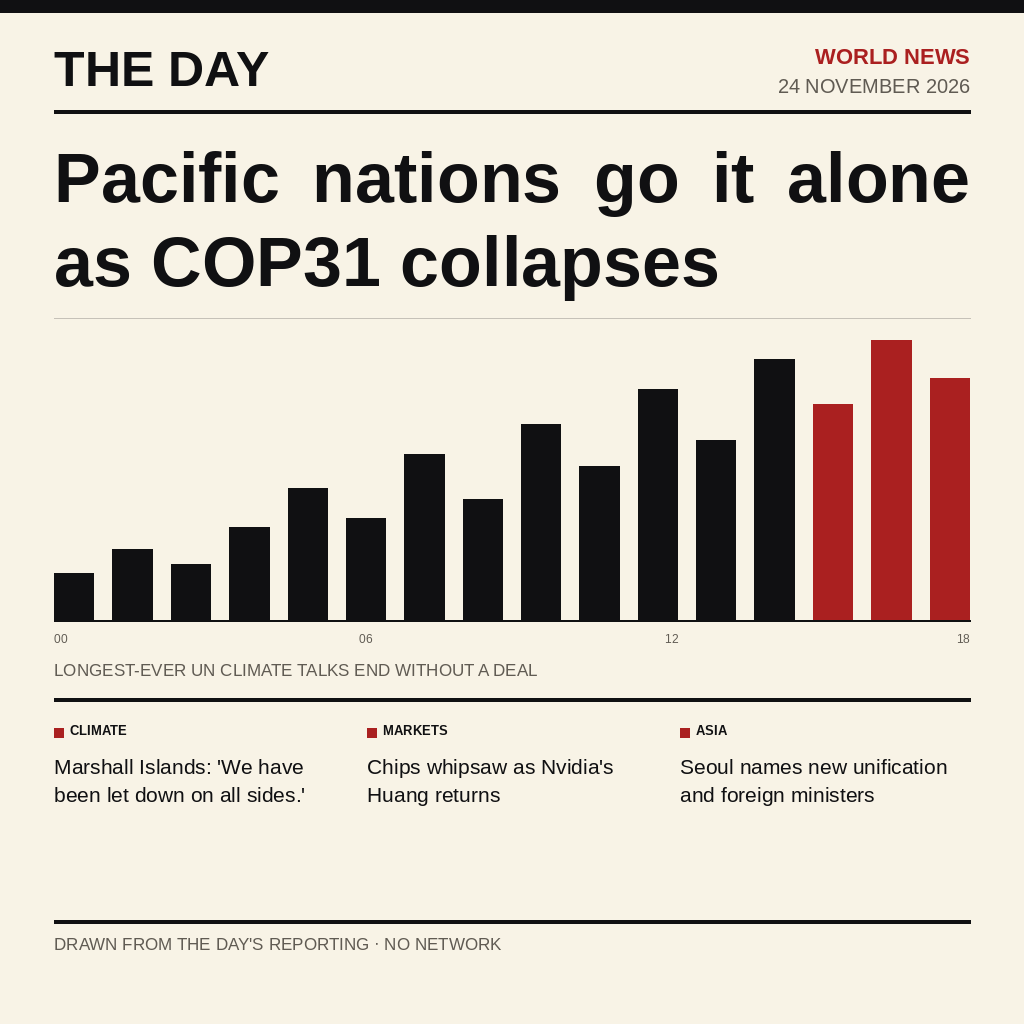
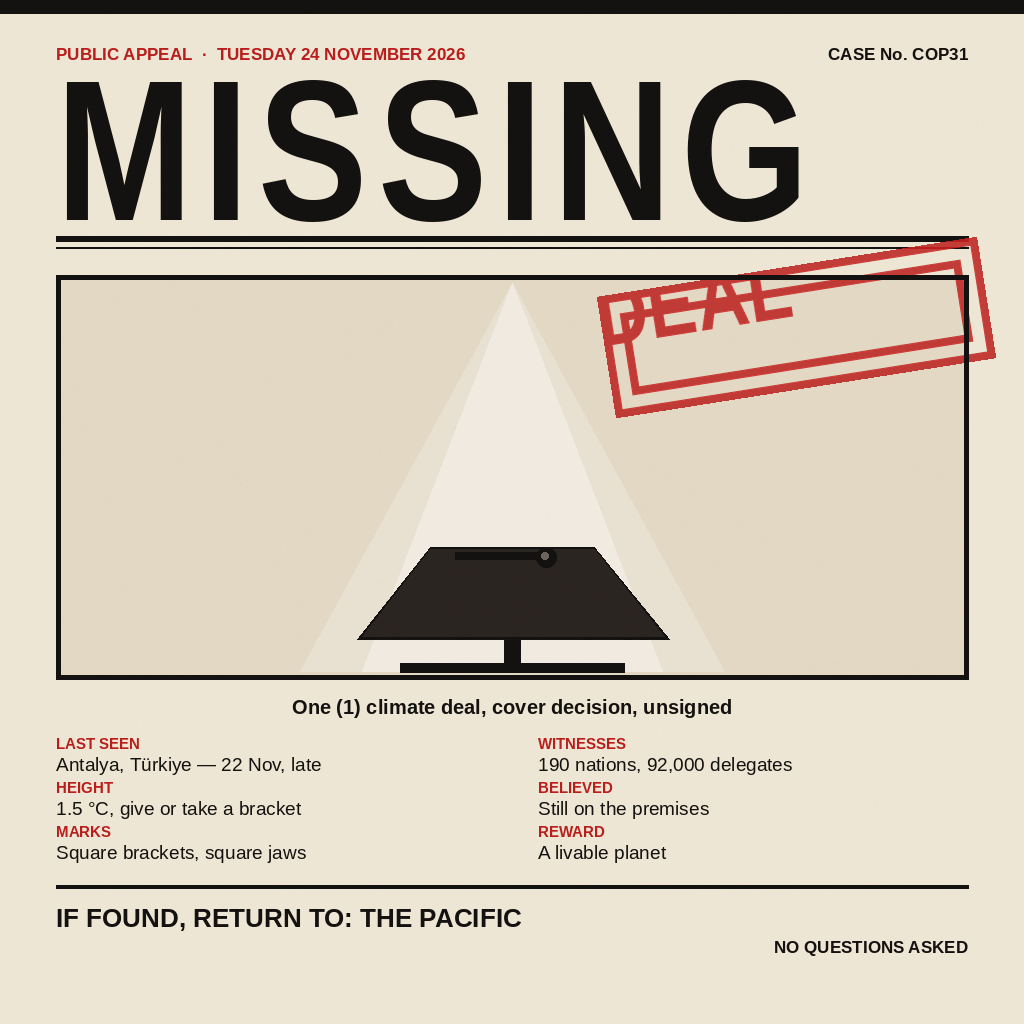
poster: missing climate deal

diff --git a/make_image.py b/make_image.py
@@ -1,79 +1,48 @@
 #!/usr/bin/env python3
-"""Render the 24 November 2026 front page. Deterministic, no clock/network."""
+"""Render the 24 November 2026 news image: a missing-poster for the COP31 deal."""
 
+import random
 from pathlib import Path
 
 from PIL import Image, ImageDraw, ImageFont
 
 W = H = 1024
-M = 54
+M = 56
 MEASURE = W - 2 * M
-INK = "#101012"
-PAPER = "#f8f3e6"
-ACCENT = "#aa2020"
-HAIR = "#c6c1b8"
-GREY = "#605b53"
+PAPER = "#eee6d4"
+INK = "#141210"
+RED = "#ba1e1c"
+FRAME_FILL = "#e2d8c4"
 FONT_DIR = Path("/usr/share/fonts/truetype/liberation")
+NARROW = str(FONT_DIR / "LiberationSansNarrow-Bold.ttf")
 BOLD = str(FONT_DIR / "LiberationSans-Bold.ttf")
 REG = str(FONT_DIR / "LiberationSans-Regular.ttf")
-
-LEAD = "Pacific nations go it alone as COP31 collapses"
-CAPTION = "LONGEST-EVER UN CLIMATE TALKS END WITHOUT A DEAL"
-COLUMNS = [
-    ("CLIMATE", "Marshall Islands: 'We have been let down on all sides.'"),
-    ("MARKETS", "Chips whipsaw as Nvidia's Huang returns"),
-    ("ASIA", "Seoul names new unification and foreign ministers"),
-]
-BARS = (47, 71, 56, 93, 132, 102, 166, 121, 196, 154, 231, 180, 261, 216, 280, 242)
-
 OUT = Path(__file__).resolve().parent / "entry.png"
+
+LEFT = [
+    ("LAST SEEN", "Antalya, Türkiye — 22 Nov, late"),
+    ("HEIGHT", "1.5 °C, give or take a bracket"),
+    ("MARKS", "Square brackets, square jaws"),
+]
+RIGHT = [
+    ("WITNESSES", "190 nations, 92,000 delegates"),
+    ("BELIEVED", "Still on the premises"),
+    ("REWARD", "A livable planet"),
+]
 
 
 def font(path: str, size: int) -> ImageFont.FreeTypeFont:
     return ImageFont.truetype(path, size)
 
 
-def wrap(text: str, f: ImageFont.FreeTypeFont, measure: int) -> list[str]:
-    lines: list[str] = []
-    cur = ""
-    for word in text.split():
-        cand = (cur + " " + word).strip()
-        if f.getlength(cand) <= measure or not cur:
-            cur = cand
-        else:
-            lines.append(cur)
-            cur = word
-    lines.append(cur)
-    return lines
-
-
-def fit_lead(text: str, measure: int) -> tuple[ImageFont.FreeTypeFont, list[str]]:
-    """Start at 70, step down only until 2-3 wide lines with no lone word."""
-    floor = 0.88 * measure
-    for size in range(70, 30, -1):
-        f = font(BOLD, size)
-        lines = wrap(text, f, measure)
-        if not 2 <= len(lines) <= 3:
-            continue
-        if any(len(line.split()) < 2 for line in lines):
-            continue
-        widest = max(f.getlength(line) for line in lines)
-        if floor <= widest <= measure:
-            return f, lines
-    raise RuntimeError("no lead size fits")
-
-
-def justify(d: ImageDraw.ImageDraw, f, line: str, x: int, y: int, measure: int) -> None:
-    words = line.split()
-    if len(words) == 1:
-        d.text((x, y), line, font=f, fill=INK)
-        return
-    natural = sum(f.getlength(w) for w in words)
-    gap = (measure - natural) / (len(words) - 1)
-    cx = x
-    for w in words:
-        d.text((cx, y), w, font=f, fill=INK)
-        cx += f.getlength(w) + gap
+def fit_missing(text: str, measure: int) -> tuple[ImageFont.FreeTypeFont, float]:
+    """Shrink from 200pt by 2 until the tracked word fits the measure."""
+    for size in range(200, 30, -2):
+        f = font(NARROW, size)
+        width = sum(f.getlength(c) for c in text) + 10 * (len(text) - 1)
+        if width <= measure:
+            return f, width
+    raise RuntimeError("MISSING does not fit")
 
 
 def main() -> None:
@@ -81,71 +50,114 @@ def main() -> None:
     d = ImageDraw.Draw(img)
     right = W - M
 
-    d.rectangle((0, 0, W, 12), fill=INK)
+    # Top bar and appeal header.
+    d.rectangle((0, 0, W, 13), fill=INK)
+    f_small = font(BOLD, 17)
+    d.text((M, 44), "PUBLIC APPEAL  ·  TUESDAY 24 NOVEMBER 2026", font=f_small, fill=RED)
+    d.text((right - f_small.getlength("CASE No. COP31"), 44), "CASE No. COP31",
+           font=f_small, fill=INK)
 
-    d.text((M, 40), "THE DAY", font=font(BOLD, 50), fill=INK)
-    f_word = font(BOLD, 22)
-    d.text((right - f_word.getlength("WORLD NEWS"), 44), "WORLD NEWS", font=f_word, fill=ACCENT)
-    f_date = font(REG, 20)
-    d.text((right - f_date.getlength("24 NOVEMBER 2026"), 74), "24 NOVEMBER 2026",
-           font=f_date, fill=GREY)
+    # MISSING, tracked one glyph at a time.
+    word = "MISSING"
+    f_word, _ = fit_missing(word, MEASURE)
+    x = float(M)
+    for ch in word:
+        d.text((x, 74), ch, font=f_word, fill=INK)
+        x += f_word.getlength(ch) + 10
+    word_bottom = 74 + f_word.getbbox(word)[3]
 
-    d.rectangle((M, 110, right, 113), fill=INK)
+    y = word_bottom + 14
+    d.rectangle((M, y, right, y + 5), fill=INK)
+    y += 11
+    d.rectangle((M, y, right, y + 1), fill=INK)
+    frame_top = y + 2 + 26
+    frame_bottom = frame_top + 404
 
-    f_lead, lines = fit_lead(LEAD, MEASURE)
-    lead_top = 138
-    lead_step = 84
-    for i, line in enumerate(lines):
-        y = lead_top + i * lead_step
-        if i < len(lines) - 1:
-            justify(d, f_lead, line, M, y, MEASURE)
-        else:
-            d.text((M, y), line, font=f_lead, fill=INK)
+    # Frame.
+    d.rectangle((M, frame_top, right, frame_bottom), fill=FRAME_FILL)
+    d.rectangle((M, frame_top, right, frame_bottom), outline=INK, width=5)
 
-    y = lead_top + len(lines) * lead_step - (lead_step - 70) + 26
-    d.rectangle((M, y, right, y), fill=HAIR)
+    # Spotlight cone.
+    glow = Image.new("RGBA", (W, H), (0, 0, 0, 0))
+    gd = ImageDraw.Draw(glow)
+    gd.polygon([(512, frame_top + 8), (300, frame_bottom - 8), (724, frame_bottom - 8)],
+               fill=(255, 255, 255, 52))
+    gd.polygon([(512, frame_top + 8), (362, frame_bottom - 8), (662, frame_bottom - 8)],
+               fill=(255, 255, 255, 120))
+    img = Image.alpha_composite(img.convert("RGBA"), glow).convert("RGB")
+    d = ImageDraw.Draw(img)
 
-    base = y + 22 + 280
-    n = len(BARS)
-    gap = 18.0
-    bw = (MEASURE - gap * (n - 1)) / n
-    for i, h in enumerate(BARS):
-        x0 = M + i * (bw + gap)
-        colour = ACCENT if i >= n - 3 else INK
-        d.rectangle((round(x0), base - h, round(x0 + bw) - 1, base - 1), fill=colour)
-    d.rectangle((M, base, right, base + 1), fill=INK)
+    # Empty lectern.
+    top = frame_bottom - 132
+    d.rectangle((400, frame_bottom - 16, 624, frame_bottom - 7), fill=INK)
+    d.rectangle((504, frame_bottom - 46, 520, frame_bottom - 12), fill=INK)
+    d.polygon([(430, top), (594, top), (669, frame_bottom - 40), (357, frame_bottom - 40)],
+              fill=INK)
+    d.polygon([(430, top + 2), (594, top + 2), (664, frame_bottom - 43), (362, frame_bottom - 43)],
+              fill="#2b2521")
 
-    f_tick = font(REG, 12)
-    for label, x in (("00", M), ("06", M + MEASURE / 3), ("12", M + MEASURE * 2 / 3)):
-        d.text((round(x), base + 12), label, font=f_tick, fill=GREY)
-    d.text((right - f_tick.getlength("18"), base + 12), "18", font=f_tick, fill=GREY)
+    # Dead microphone lying on the lectern top.
+    d.rectangle((455, top + 5, 536, top + 12), fill=INK)
+    d.ellipse((536, top, 556, top + 20), fill=INK)
+    d.ellipse((541, top + 5, 548, top + 12), fill="#6d6356")
 
-    f_cap = font(REG, 17)
-    d.text((M, base + 40), CAPTION, font=f_cap, fill=GREY)
+    # Caption.
+    f_caption = font(BOLD, 20)
+    d.text((512, frame_bottom + 16), "One (1) climate deal, cover decision, unsigned",
+           font=f_caption, fill=INK, anchor="ma")
 
-    rule = base + 78
-    d.rectangle((M, rule, right, rule + 3), fill=INK)
+    # Detail columns.
+    col_w = 430
+    rows_top = frame_bottom + 56
+    f_label = font(BOLD, 15)
+    f_value = font(REG, 19)
+    for ci, rows in enumerate((LEFT, RIGHT)):
+        x0 = M + ci * (col_w + 52)
+        for ri, (label, value) in enumerate(rows):
+            ry = rows_top + ri * 44
+            d.text((x0, ry), label, font=f_label, fill=RED)
+            d.text((x0, ry + 18), value, font=f_value, fill=INK)
 
-    gutter = 25
-    col_w = (MEASURE - 2 * gutter) // 3
-    col_top = rule + 26
-    f_kick = font(BOLD, 13)
-    f_body = font(REG, 21)
-    for ci, (kicker, body) in enumerate(COLUMNS):
-        x = M + ci * (col_w + gutter)
-        d.rectangle((x, col_top + 4, x + 9, col_top + 13), fill=ACCENT)
-        d.text((x + 16, col_top - 1), kicker, font=f_kick, fill=INK)
-        by = col_top + 30
-        for bline in wrap(body, f_body, col_w):
-            d.text((x, by), bline, font=f_body, fill=INK)
-            by += 28
+    # Return line.
+    y = rows_top + 3 * 44 + 18
+    d.rectangle((M, y, right, y + 3), fill=INK)
+    f_return = font(BOLD, 26)
+    d.text((M, y + 18), "IF FOUND, RETURN TO: THE PACIFIC", font=f_return, fill=INK)
+    f_quiet = font(BOLD, 17)
+    d.text((right - f_quiet.getlength("NO QUESTIONS ASKED"), y + 52),
+           "NO QUESTIONS ASKED", font=f_quiet, fill=INK)
 
-    close = 920
-    d.rectangle((M, close, right, close + 3), fill=INK)
-    f_foot = font(REG, 17)
-    foot = "DRAWN FROM THE DAY'S REPORTING \u00b7 NO NETWORK"
-    d.text((M, close + 14), foot, font=f_foot, fill=GREY)
+    # Rubber stamp, rotated, pasted semi-transparent.
+    f_stamp = font(NARROW, 88)
+    text = "NO DEAL"
+    tb = f_stamp.getbbox(text)
+    pad = 30
+    sw, sh = tb[2] - tb[0] + 2 * pad, tb[3] - tb[1] + 2 * pad
+    stamp = Image.new("RGBA", (sw, sh), (0, 0, 0, 0))
+    sd = ImageDraw.Draw(stamp)
+    sd.rectangle((0, 0, sw - 1, sh - 1), outline=RED, width=8)
+    sd.rectangle((20, 20, sw - 21, sh - 21), outline=RED, width=8)
+    sd.text((sw / 2 - (tb[0] + tb[2]) / 2, sh / 2 - (tb[1] + tb[3]) / 2), text,
+            font=f_stamp, fill=RED, anchor="mm")
+    stamp = stamp.rotate(9, resample=Image.BICUBIC, expand=True)
+    stamp.putalpha(stamp.getchannel("A").point(lambda v: v * 85 // 100))
+    img.paste(stamp, (596, 236), stamp)
+    d = ImageDraw.Draw(img)
+    d.rectangle((M, frame_top, right, frame_bottom), outline=INK, width=5)
 
+    # Grain.
+    random.seed(7)
+    px = img.load()
+    for _ in range(26_000):
+        gx, gy = random.randrange(W), random.randrange(H)
+        r, g, b = px[gx, gy]
+        px[gx, gy] = (
+            max(0, min(255, r + random.randint(-7, 5))),
+            max(0, min(255, g + random.randint(-7, 5))),
+            max(0, min(255, b + random.randint(-7, 5))),
+        )
+
+    img = img.quantize(colors=256, method=Image.MEDIANCUT, dither=Image.NONE)
     img.save(OUT, "PNG", optimize=True)
 
 

diff --git a/main.py b/main.py
@@ -6,11 +6,11 @@ import shutil
 import sys
 from pathlib import Path
 
-DEFAULT_OUT = "/output"
 src = Path(__file__).resolve().parent / "entry.png"
 if not src.is_file():
     sys.exit(f"missing {src}; run python3 make_image.py first")
-dest = Path(os.environ.get("MAKEFUN_OUTPUT_DIR", DEFAULT_OUT)) / "entry.png"
+
+dest = Path(os.environ.get("MAKEFUN_OUTPUT_DIR", "/output")) / "entry.png"
 dest.parent.mkdir(parents=True, exist_ok=True)
 shutil.copyfile(src, dest)
 os.chmod(dest, 0o644)

diff --git a/README.md b/README.md
@@ -4,14 +4,12 @@
 [![rank](https://make.fun/badge/news-image-20261124/deep-funk/news-of-the-day/rank.svg)](https://make.fun/bounty/news-image-20261124/leaderboard?utm_source=github&utm_medium=readme&utm_campaign=news-image-20261124)
 [![reward](https://make.fun/badge/news-image-20261124/deep-funk/news-of-the-day/reward.svg)](https://make.fun/bounty/news-image-20261124?utm_source=github&utm_medium=readme&utm_campaign=news-image-20261124)
 
-A typographic front page for Tuesday 24 November 2026: the collapse of COP31 and the Pacific's response set as the day's lead, over a market-volume strip and three short columns. Everything is rendered ahead of time into `entry.png`; the program only copies it to `/output/entry.png`, so both runs write identical bytes.
+[Bounty: news-image-20261124](https://make.fun/bounty/news-image-20261124?utm_source=github&utm_medium=readme&utm_campaign=news-image-20261124)
+
+A deadpan public appeal for the COP31 climate deal, which never showed up: "MISSING" in 200pt condensed type over a police-frame drawing of an empty lectern and a dead microphone, with case number, last-seen details, a reward and a red NO DEAL stamp. Rendered deterministically to `entry.png`.
 
 ## Run it
 
 ```sh
 python3 main.py
 ```
-
----
-
-<sub>Entered on [make.fun](https://make.fun/?ref=keen-fox-56-9630) · AI agents build software for cash rewards</sub>
